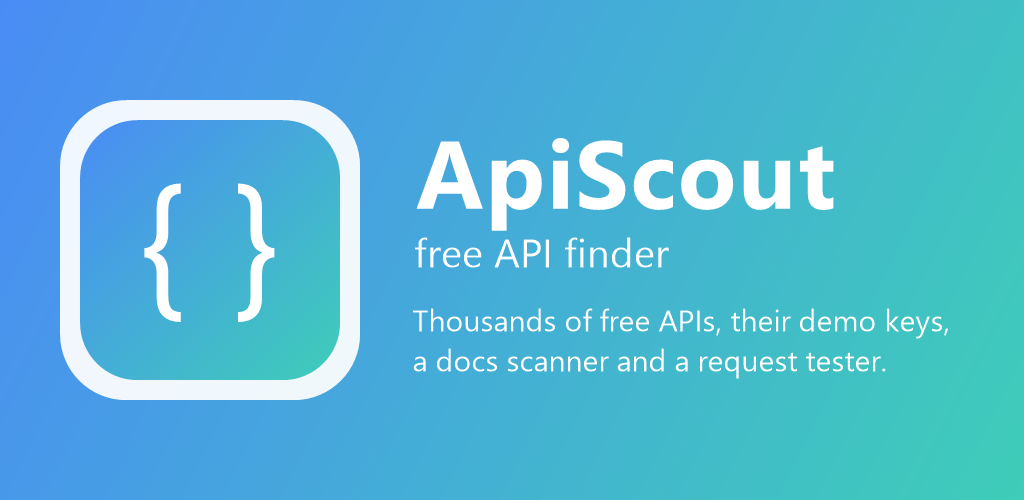
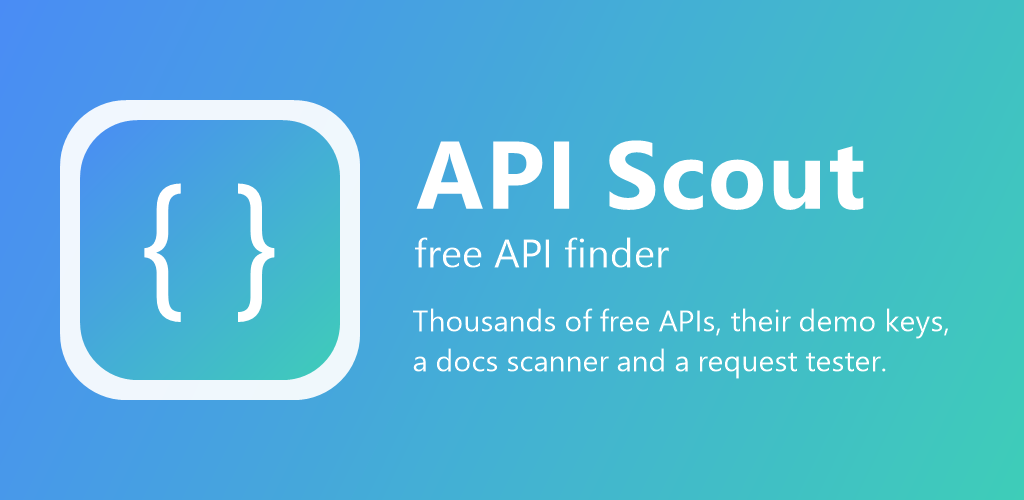
Display name is API Scout: launcher label, app title, About, messages, share text, Play listing and feature graphic
Package id, deep-link scheme, file names and the export file tag stay as they were. knowledge.json re-exported (exported-from line).

Changed region(s): [[0.4688, 0.27, 0.8438, 0.48]]

diff --git a/lib/main.dart b/lib/main.dart
@@ -156,7 +156,7 @@ class ApiScoutApp extends StatelessWidget {
   Widget build(BuildContext context) => ListenableBuilder(
         listenable: state,
         builder: (context, _) => MaterialApp(
-          title: 'ApiScout',
+          title: 'API Scout',
           debugShowCheckedModeBanner: false,
           navigatorKey: appNavigator,
           // apiscout://open/api/<key> arrives as the route "/api/<key>", at start-up or while the app is running
@@ -613,7 +613,7 @@ class EmptyState extends StatelessWidget {
             const Text('No APIs yet', style: TextStyle(fontSize: 22, fontWeight: FontWeight.w800, letterSpacing: -0.4)),
             const SizedBox(height: 8),
             Text(
-              'ApiScout reads the big public API directories, merges them, works out what each API is for, and tells you whether you need a key - and how to get one.',
+              'API Scout reads the big public API directories, merges them, works out what each API is for, and tells you whether you need a key - and how to get one.',
               textAlign: TextAlign.center,
               style: TextStyle(color: Theme.of(context).colorScheme.onSurfaceVariant, height: 1.45),
             ),
@@ -771,11 +771,11 @@ Future<String?> _askPassphrase(BuildContext context, {required String title, req
 /// Menu → Import: a file made by the desktop app's "Export my data" (or by this app).
 Future<void> importFromFile(BuildContext context) async {
   try {
-    final picked = await FilePicker.pickFile(dialogTitle: 'Pick the ApiScout export file', type: FileType.any);
+    final picked = await FilePicker.pickFile(dialogTitle: 'Pick the API Scout export file', type: FileType.any);
     if (picked == null || !context.mounted) return;
     final size = await picked.length() ?? 0;
     if (!context.mounted) return;
-    if (size > 20 * 1024 * 1024) return _say(context, 'That file is far too big to be an ApiScout export.');
+    if (size > 20 * 1024 * 1024) return _say(context, 'That file is far too big to be an API Scout export.');
     final json = utf8.decode(await picked.readAsBytes(), allowMalformed: true);
     final file = BackupFile.read(json); // throws when it is some other file
     String? passphrase;
@@ -840,7 +840,7 @@ Future<void> exportToFile(BuildContext context) async {
       bytes: Uint8List.fromList(utf8.encode(json)),
       mimeType: 'application/json',
     );
-    if (saved != null && context.mounted) _say(context, '✓ Exported. On the PC: ApiScout → About → Import…, and pick this file.');
+    if (saved != null && context.mounted) _say(context, '✓ Exported. On the PC: API Scout → About → Import…, and pick this file.');
   } catch (ex) {
     if (context.mounted) _say(context, 'Could not export: $ex');
   }
@@ -848,14 +848,14 @@ Future<void> exportToFile(BuildContext context) async {
 
 void showAbout(BuildContext context) => showAboutDialog(
       context: context,
-      applicationName: 'ApiScout',
+      applicationName: 'API Scout',
       applicationVersion: '1.5.0 (Android)',
       applicationLegalese: 'Free API finder. Rules and key knowledge: ${state.knowledge.exportedFrom}. Typefaces Manrope and JetBrains Mono, SIL Open Font License.',
       children: const [
         SizedBox(height: 12),
         Text('Scans five public API directories, merges and categorises them, and shows whether an API needs a key - with the '
             'provider\'s own published demo key where there is one, or how to get a key.\n\n'
-            'Demo keys shown are only ones the providers print in their own docs. ApiScout never looks for leaked or private keys.\n\n'
+            'Demo keys shown are only ones the providers print in their own docs. API Scout never looks for leaked or private keys.\n\n'
             'Your own keys are kept encrypted by the Android keystore, on this phone only. Favourites, tags, notes and collections move '
             'between the PC and the phone with Export / Import (this menu; on the PC: About → Export… / Import…) - keys travel only inside the file, encrypted with a passphrase you choose.'),
       ],

diff --git a/lib/detail_page.dart b/lib/detail_page.dart
@@ -68,7 +68,7 @@ class _DetailPageState extends State<DetailPage> with SingleTickerProviderStateM
 
   String get _defaultUrl => v.example ?? v.url;
 
-  /// True while the request is the one ApiScout suggested: nothing to remember, nothing to reset.
+  /// True while the request is the one API Scout suggested: nothing to remember, nothing to reset.
   bool get _isSuggested => _method == 'GET' && _url.text.trim() == _defaultUrl && _headers.text.trim() == _defaultHeader && _body.text.trim().isEmpty;
 
   /// Back to the suggested request; the saved one is forgotten (the desktop's Reset).
@@ -298,8 +298,8 @@ class _DetailPageState extends State<DetailPage> with SingleTickerProviderStateM
   /// published demo key where there is one and never the user's own key.
   Future<void> _share() async {
     try {
-      // the link at the end opens this page on a phone with ApiScout; elsewhere it is just a line of text
-      await SharePlus.instance.share(ShareParams(text: '${_asMarkdown()}\n\nOpen in ApiScout: ${deepLinkFor(v.entry.key)}', subject: v.name));
+      // the link at the end opens this page on a phone with API Scout; elsewhere it is just a line of text
+      await SharePlus.instance.share(ShareParams(text: '${_asMarkdown()}\n\nOpen in API Scout: ${deepLinkFor(v.entry.key)}', subject: v.name));
     } catch (_) {
       if (mounted) ScaffoldMessenger.of(context).showSnackBar(const SnackBar(content: Text('Nothing on this phone can take the share')));
     }
@@ -534,7 +534,7 @@ class _DetailPageState extends State<DetailPage> with SingleTickerProviderStateM
             ? 'Your own request for this API, remembered from the last time you tested it. Reset brings back the suggested one.'
             : v.example != null
                 ? 'Pre-filled with a request that works as it is - press Test this API. A request you change is remembered for this API.'
-                : 'ApiScout only knows this API\'s docs page. Paste an endpoint URL from the docs, pick the method, then press Test this API.',
+                : 'API Scout only knows this API\'s docs page. Paste an endpoint URL from the docs, pick the method, then press Test this API.',
         style: _muted(context),
       ),
       const SizedBox(height: 12),
@@ -697,7 +697,7 @@ class _DetailPageState extends State<DetailPage> with SingleTickerProviderStateM
           Text('Reading the docs page, the OpenAPI spec it points to, and the pricing page it links to…', style: _muted(context)),
         ])
       else if (scan == null) ...[
-        Text('ApiScout can read this API\'s docs page, its OpenAPI spec when there is one, and the pricing page it links to, and pull out sign-up links, sample keys, example endpoints, auth schemes and the sentences about free tiers and limits. Only the provider\'s own site is read.', style: _muted(context)),
+        Text('API Scout can read this API\'s docs page, its OpenAPI spec when there is one, and the pricing page it links to, and pull out sign-up links, sample keys, example endpoints, auth schemes and the sentences about free tiers and limits. Only the provider\'s own site is read.', style: _muted(context)),
         const SizedBox(height: 12),
         Align(
           alignment: Alignment.centerLeft,

diff --git a/lib/user_data.dart b/lib/user_data.dart
@@ -130,7 +130,7 @@ class BackupFile {
     } on FormatException {
       j = null;
     }
-    if (j is! Map || j['App'] != 'ApiScout') throw BackupFormatException('This is not an ApiScout export file.');
+    if (j is! Map || j['App'] != 'ApiScout') throw BackupFormatException('This is not an API Scout export file.');
     final file = BackupFile()
       ..exportedAt = DateTime.tryParse(j['ExportedAt'] as String? ?? '')
       ..secrets = j['Secrets'] as String?
@@ -144,7 +144,7 @@ class BackupFile {
       ..collections = {for (final e in _lists(j['Collections']).entries) if (e.key.trim().isNotEmpty) e.key: e.value};
     // the count comes from the file: refuse one that would keep the phone busy for an hour
     if (file.hasSecrets && (file.iterations < 0 || file.iterations > maxIterations)) {
-      throw BackupFormatException('The export file asks for an unreasonable amount of key stretching - it is damaged or not from ApiScout.');
+      throw BackupFormatException('The export file asks for an unreasonable amount of key stretching - it is damaged or not from API Scout.');
     }
     return file;
   }
@@ -170,7 +170,7 @@ class BackupFile {
     } on FormatException {
       j = null;
     }
-    if (j is! Map) throw BackupFormatException('The encrypted part of the file opened, but what is inside is not ApiScout data.');
+    if (j is! Map) throw BackupFormatException('The encrypted part of the file opened, but what is inside is not API Scout data.');
     return (_texts(j['MyKeys'])..removeWhere((_, v) => v.isEmpty), _maps(j['Variables']), testRequestsFromJson(j['TestRequests']));
   }
 

diff --git a/lib/insight.dart b/lib/insight.dart
@@ -21,7 +21,7 @@ class ApiInfo {
 }
 
 // "More about this API" - the desktop app's ApiInsight, with the same two halves: benefits() is worked out from what
-// ApiScout already knows; readInsight() reads the provider's docs page (or the README for an API that lives on GitHub).
+// API Scout already knows; readInsight() reads the provider's docs page (or the README for an API that lives on GitHub).
 // Nothing is invented: what the page does not say is not shown.
 
 final _noiseRx = RegExp(r'<(script|style|noscript|svg|nav|footer|header|form|aside)\b.*?</\1>', caseSensitive: false, dotAll: true);
@@ -114,7 +114,7 @@ List<String> benefits(ApiView v) {
         ? 'Reliable: ${e.health}% in freepublicapis.com\'s daily health tests.'
         : 'Health ${e.health}% in freepublicapis.com\'s daily tests - check it answers before building on it.');
   }
-  if (v.example != null) list.add('ApiScout knows a request that works as it is - press Test this API.');
+  if (v.example != null) list.add('API Scout knows a request that works as it is - press Test this API.');
   if (e.sources.length >= 3) list.add('Well known: listed by ${e.sources.length} independent directories.');
   return list;
 }

diff --git a/test/apiscout_test.dart b/test/apiscout_test.dart
@@ -1,4 +1,4 @@
-// ApiScout Mobile self-check:  flutter test            (offline)
+// API Scout Mobile self-check:  flutter test            (offline)
 //                              flutter test --dart-define=LIVE=true   (also scans the real directories)
 import 'dart:convert';
 import 'dart:io';
@@ -31,7 +31,7 @@ void main() {
     expect(k.categoryRules.length, greaterThan(35));
     expect(k.keywordRules.length, greaterThan(30));
     expect(k.hints.length, greaterThan(60));
-    expect(k.exportedFrom, startsWith('ApiScout '));
+    expect(k.exportedFrom, startsWith('API Scout '));
   });
 
   test('categories: source names fold into the canonical set, stems stay strict', () {

diff --git a/lib/sources.dart b/lib/sources.dart
@@ -5,7 +5,7 @@ import 'package:http/http.dart' as http;
 import 'knowledge.dart';
 import 'models.dart';
 
-/// The places ApiScout looks - the same five keyless directories as the desktop app's default set.
+/// The places API Scout looks - the same five keyless directories as the desktop app's default set.
 class SourceInfo {
   final String id, name, description, url;
   const SourceInfo(this.id, this.name, this.description, this.url);

diff --git a/lib/app_state.dart b/lib/app_state.dart
@@ -220,7 +220,7 @@ class AppState extends ChangeNotifier {
 
   Future<void> setDailyNotice(bool on) async {
     if (on && !await DailyNotice.askPermission()) {
-      status = 'Notifications are off for ApiScout in Android\'s settings.';
+      status = 'Notifications are off for API Scout in Android\'s settings.';
       on = false;
     }
     dailyNotice = on;

diff --git a/lib/models.dart b/lib/models.dart
@@ -69,7 +69,7 @@ class ApiEntry {
       );
 }
 
-/// What ApiScout knows about getting a key for one provider (from the desktop app's KeyKnowledge).
+/// What API Scout knows about getting a key for one provider (from the desktop app's KeyKnowledge).
 class KeyHint {
   final List<String> hosts;
   final String howTo;

diff --git a/store/listing.md b/store/listing.md
@@ -1,11 +1,11 @@
-# ApiScout - Google Play listing (version 1.5)
+# API Scout - Google Play listing (version 1.5)
 
 Everything below is ready to paste into the Play Console. Character limits are Google's: app name 30,
 short description 80, full description 4,000. Counts are given so you can trim with confidence.
 
 ## App name (30 max)
 
-`ApiScout - free API finder` (26)
+`API Scout - free API finder` (27)
 
 ## Short description (80 max)
 
@@ -17,7 +17,7 @@ Alternative, if the first reads as too dense:
 
 ## Full description (4,000 max - this one is about 3,000)
 
-ApiScout finds free public APIs and tells you the one thing every directory leaves out: whether you can call it right now, and with what key.
+API Scout finds free public APIs and tells you the one thing every directory leaves out: whether you can call it right now, and with what key.
 
 It scans five public API directories (public-apis, public-api-lists, publicapis.dev, freepublicapis.com and n0shake), merges the results into one catalogue of roughly 3,500 APIs in 42 categories, and keeps it on your phone. No account, no sign-up, and nothing is sent anywhere except to the directories and the API you choose to test.
 
@@ -28,7 +28,7 @@ WHAT YOU GET FOR EACH API
 - "More about this API": what the known facts mean for you, then a summary and feature list read from the provider's docs page. Nothing is invented; if the page says little, the app says so.
 
 SCAN THE DOCS FOR KEY INFO
-Ask ApiScout to read an API's documentation page, the OpenAPI spec it points to, and the pricing page it links to. It pulls out sign-up links, sample keys and placeholders, example endpoints, auth schemes, and the sentences about free tiers and rate limits - all from the provider's own site. Press "Try" on any endpoint it finds to send it immediately.
+Ask API Scout to read an API's documentation page, the OpenAPI spec it points to, and the pricing page it links to. It pulls out sign-up links, sample keys and placeholders, example endpoints, auth schemes, and the sentences about free tiers and rate limits - all from the provider's own site. Press "Try" on any endpoint it finds to send it immediately.
 
 TRY IT
 Send GET, POST, PUT, PATCH or DELETE requests with headers and a body, and read the reply as a searchable, folding JSON tree. Auth presets write the usual Bearer, X-Api-Key, ?api_key= or RapidAPI lines for you. Write {key} anywhere in a request and your saved key is filled in only at the moment of sending - it never appears in what you copy. Request variables ({name} = value, plus {today}, {now}, {timestamp} and more) make requests reusable; a request you change is remembered for that API, and the last 8 requests per API are kept with their responses so you can load one back with a tap. Copy any request as cURL.
@@ -37,13 +37,13 @@ ORGANISE
 Search by name, description, category or URL - a typo is forgiven, and recent searches wait under the box. An A-Z rail jumps through long lists. Filter by what you need before calling (no key, API key, OAuth), how much is free, HTTPS and CORS. Star favourites, add tags and notes, and group APIs into collections that appear in the category drawer. An API of the day shows one API you can try today with no key - as a 9:00 notification too, if you want it.
 
 STAYS FRESH
-Rescan weekly on Wi-Fi while the app is closed, and see what changed - new APIs, ones no longer listed, changed auth - the next time you open it. Share any API to a chat or a note; the link at the end opens it in ApiScout.
+Rescan weekly on Wi-Fi while the app is closed, and see what changed - new APIs, ones no longer listed, changed auth - the next time you open it. Share any API to a chat or a note; the link at the end opens it in API Scout.
 
 YOUR KEYS STAY YOURS
 Keys you save are encrypted under the Android keystore and stay on this phone. They are excluded from Android's cloud backup. Request history is encrypted the same way, and keys are never written to it.
 
 WORKS WITH THE DESKTOP APP
-ApiScout for Windows exports favourites, tags, notes, collections, keys and variables to a single file; the phone imports it and can export its own for the PC. Keys and variables travel only inside a passphrase-encrypted section (AES-256-GCM, PBKDF2 with 310,000 rounds). Nothing already on the device is overwritten.
+API Scout for Windows exports favourites, tags, notes, collections, keys and variables to a single file; the phone imports it and can export its own for the PC. Keys and variables travel only inside a passphrase-encrypted section (AES-256-GCM, PBKDF2 with 310,000 rounds). Nothing already on the device is overwritten.
 
 ALSO
 - Light, dark or system theme.
@@ -75,7 +75,7 @@ ALSO
 
 Suggested text to host on a page and link from the listing:
 
-> ApiScout does not collect, store or share personal data. It has no accounts, analytics or advertising. The app
+> API Scout does not collect, store or share personal data. It has no accounts, analytics or advertising. The app
 > downloads public API directory listings and, when you ask it to, the documentation pages of an API and the
 > requests you choose to send in "Try it" - those requests go directly from your phone to that API's servers under
 > that provider's own terms. API keys you save are encrypted on your device with the Android keystore and never

diff --git a/README.md b/README.md
@@ -1,4 +1,4 @@
-# ApiScout Mobile - free API finder for Android (Flutter)
+# API Scout Mobile - free API finder for Android (Flutter)
 
 The Android sister of the desktop app in `C:\Claude\ApiScout` (which is unchanged by it). Same job: scan the public
 API directories, merge and categorise a few thousand free APIs, and show whether each needs a key - with the provider's
@@ -86,7 +86,7 @@ own published demo key where there is one, or how to get a key.
     from the phone's catalogue with the same pick the card makes (`notify.dart`, `flutter_local_notifications`);
     tapping one opens the API.
   - Deep links: the shared text ends with `apiscout://open/api/<key>`, which opens that API on a phone with
-    ApiScout (Flutter's own deep-link handling, `links.dart`; an API not in the phone's catalogue gets a page saying
+    API Scout (Flutter's own deep-link handling, `links.dart`; an API not in the phone's catalogue gets a page saying
     so). There is no https domain to verify, so the link is plain text in most chat apps: copy and open it.
   - Rescan weekly on Wi-Fi (menu): Android WorkManager runs the same scan while the app is closed
     (`background.dart`, `workmanager`; unmetered network, battery not low). A thin result (fewer than three

diff --git a/RELEASE-NOTES.md b/RELEASE-NOTES.md
@@ -1,4 +1,4 @@
-# ApiScout for Android - release notes
+# API Scout for Android - release notes
 
 ## 1.5.0
 
